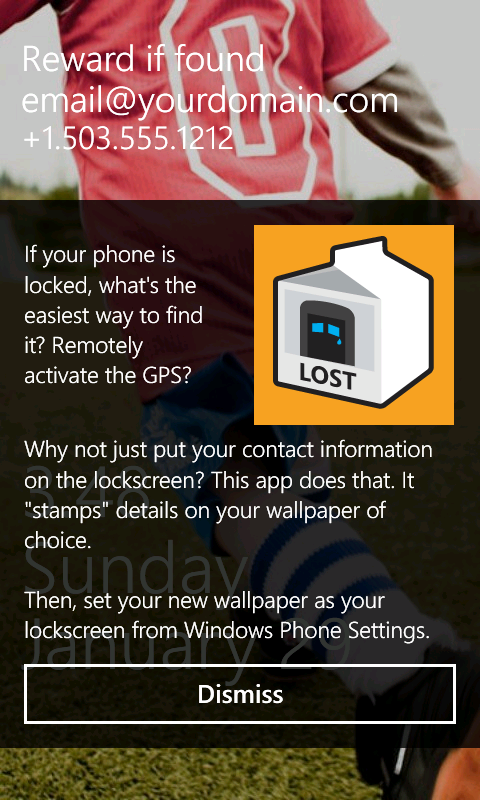
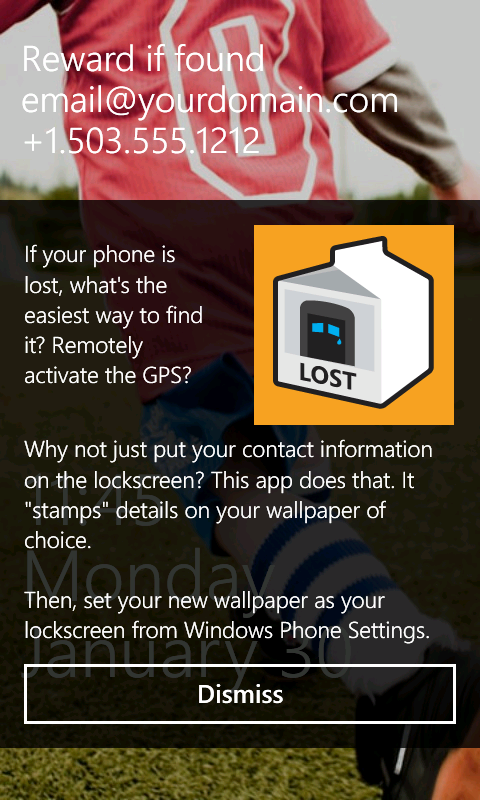
spelling error

diff --git a/IfFoundLockScreen/HelpPopup.xaml b/IfFoundLockScreen/HelpPopup.xaml
@@ -26,7 +26,7 @@
         <TextBlock x:Name="DayOfWeek" TextAlignment="Left" VerticalAlignment="Center"
                  TextWrapping="Wrap" Grid.Row="0" Grid.Column="0"
                        Margin="24,0,24,0" Style="{StaticResource PhoneTextTitle3Style}" >
-            If your phone is locked, what's the easiest way to find it? Remotely activate the GPS? 
+            If your phone is lost, what's the easiest way to find it? Remotely activate the GPS? 
         </TextBlock>
         <TextBlock x:Name="DayOfWeek2" TextAlignment="Left" VerticalAlignment="Center"
                  TextWrapping="Wrap" Grid.Row="1" Grid.ColumnSpan="2"
